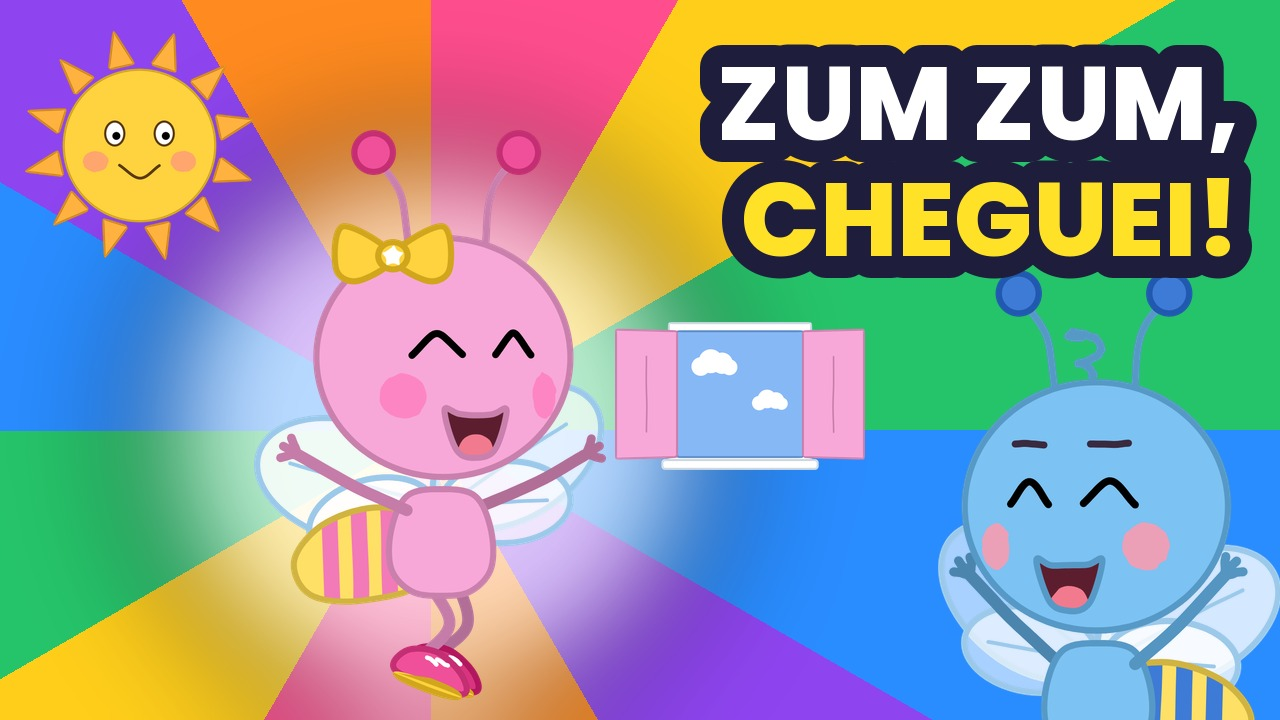
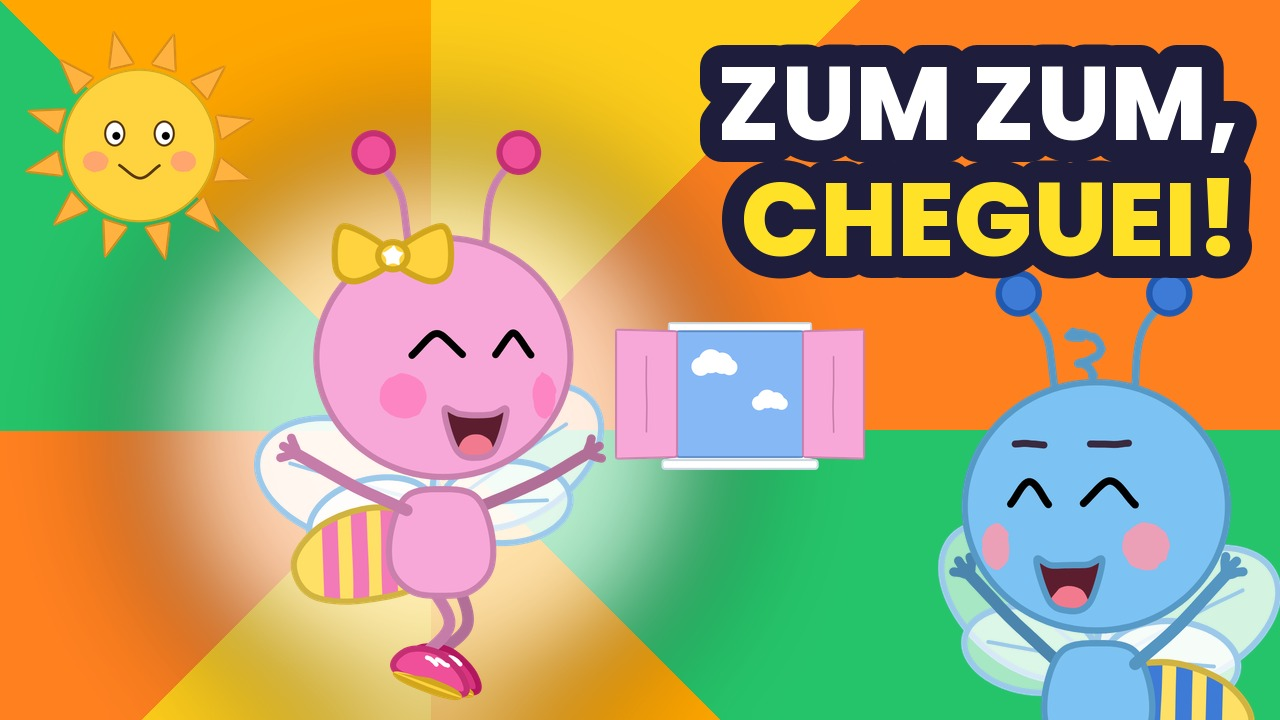
Miniaturas: cores e formato de fundo próprios por vídeo (raios, faixas, círculo, anéis) e lado do destaque alternando

diff --git a/toonstudio/composition/canal.py b/toonstudio/composition/canal.py
@@ -9,7 +9,7 @@ from __future__ import annotations
 import math
 from pathlib import Path
 
-from PIL import Image, ImageDraw, ImageFilter, ImageFont
+from PIL import Image, ImageDraw, ImageFilter, ImageFont, ImageOps
 
 from ..backgrounds import registry
 from ..characters.base import expression
@@ -154,6 +154,51 @@ def _ajusta(im: Image.Image, maior: int, giro: float = 0) -> Image.Image:
     return im.rotate(giro, expand=True, resample=Image.BICUBIC) if giro else im
 
 
+FUNDOS = ("raios", "faixas", "circulo", "aneis")                   # formato do fundo: muda de um vídeo para o outro
+
+
+def _halo(img: Image.Image, cx: float, cy: float, r: float = 290, a: int = 170) -> None:
+    h = Image.new("RGBA", img.size, (0, 0, 0, 0))
+    ImageDraw.Draw(h).ellipse([cx - r, cy - r, cx + r, cy + r], fill=(255, 255, 255, a))
+    img.alpha_composite(h.filter(ImageFilter.GaussianBlur(60)))
+
+
+def _fundo(formato: str, cores: list, cx: float, cy: float, W: int, H: int) -> Image.Image:
+    """Fundo chapado da miniatura. raios = leque saindo da personagem; faixas = listras diagonais largas;
+    circulo = fundo cortado na diagonal com um círculo grande atrás da personagem; aneis = círculos concêntricos."""
+    if formato not in FUNDOS:
+        raise ValueError(f"fundo de miniatura desconhecido: {formato} (use {FUNDOS})")
+    img = Image.new("RGBA", (W, H), cores[0] + (255,))
+    d = ImageDraw.Draw(img)
+    if formato == "raios":
+        n = len(cores) * 2
+        for k in range(n):
+            a0 = -math.pi / 2 + k * 2 * math.pi / n
+            a1 = a0 + 2 * math.pi / n
+            d.polygon([(cx, cy), (cx + 2200 * math.cos(a0), cy + 2200 * math.sin(a0)),
+                       (cx + 2200 * math.cos(a1), cy + 2200 * math.sin(a1))], fill=cores[k % len(cores)] + (255,))
+        _halo(img, cx, cy)
+    elif formato == "faixas":
+        larg, inc = 190, 0.55                                      # listras inclinadas (sobem para a direita)
+        for k in range(-12, 20):
+            x0 = k * larg
+            d.polygon([(x0, H), (x0 + larg, H), (x0 + larg + H * inc, 0), (x0 + H * inc, 0)], fill=cores[k % len(cores)] + (255,))
+        _halo(img, cx, cy, 300, 190)
+    elif formato == "circulo":
+        d.polygon([(0, 0), (W * 0.62, 0), (W * 0.40, H), (0, H)], fill=cores[0] + (255,))
+        d.polygon([(W * 0.62, 0), (W, 0), (W, H * 0.55), (W * 0.52, H * 0.55)], fill=cores[1] + (255,))
+        d.polygon([(W * 0.52, H * 0.55), (W, H * 0.55), (W, H), (W * 0.40, H)], fill=cores[3 % len(cores)] + (255,))
+        r = 330
+        d.ellipse([cx - r - 18, cy - r - 18, cx + r + 18, cy + r + 18], fill=(255, 255, 255, 255))
+        d.ellipse([cx - r, cy - r, cx + r, cy + r], fill=cores[2 % len(cores)] + (255,))
+        _halo(img, cx, cy, 220, 120)
+    else:                                                          # aneis
+        for i, r in enumerate(range(1500, 0, -120)):
+            d.ellipse([cx - r, cy - r, cx + r, cy + r], fill=cores[i % len(cores)] + (255,))
+        _halo(img, cx, cy, 260, 150)
+    return img
+
+
 def miniatura(titulo: str, nome: str, cena: dict | None = None) -> Path:
     """Miniatura 1280×720 no padrão dos canais infantis grandes: raios coloridos, personagem em close à esquerda,
     os objetos da música desenhados grandes e o título no canto superior direito. O canto inferior direito fica
@@ -168,17 +213,7 @@ def miniatura(titulo: str, nome: str, cena: dict | None = None) -> Path:
                                     "paw_n": 3, "hand_f_x": 135, "hand_f_y": -135, "hand_f_bend": -0.5, "paw_f": 3}})
     cx, cy = cena.get("centro", (430, 430))
     cores = [tuple(c) for c in cena.get("cores", CORES_RAIOS)]
-    img = Image.new("RGBA", (W, H))
-    d = ImageDraw.Draw(img)
-    n = len(cores) * 2
-    for k in range(n):
-        a0 = -math.pi / 2 + k * 2 * math.pi / n
-        a1 = a0 + 2 * math.pi / n
-        d.polygon([(cx, cy), (cx + 2200 * math.cos(a0), cy + 2200 * math.sin(a0)),
-                   (cx + 2200 * math.cos(a1), cy + 2200 * math.sin(a1))], fill=cores[k % len(cores)] + (255,))
-    brilho = Image.new("RGBA", (W, H), (0, 0, 0, 0))
-    ImageDraw.Draw(brilho).ellipse([cx - 290, cy - 290, cx + 290, cy + 290], fill=(255, 255, 255, 170))
-    img.alpha_composite(brilho.filter(ImageFilter.GaussianBlur(60)))
+    img = _fundo(cena.get("fundo", "raios"), cores, cx, cy, W, H)
     if par:                                                        # o par fica atrás, à direita, cortado embaixo
         im = _char(par["id"], _pose(par.get("pose", {})), par.get("tam", 600))
         _paste(img, im, par.get("x", 1060), H + par.get("corte", 150))
@@ -190,12 +225,15 @@ def miniatura(titulo: str, nome: str, cena: dict | None = None) -> Path:
     for o in cena.get("frente", []):                               # objetos na frente da personagem
         im = _ajusta(_char(o["id"], o.get("pose", {}), 400), o.get("tam", 300), o.get("giro", 0))
         _paste(img, im, o["x"], o["base"])
+    espelho = cena.get("lado") == "direita"                       # destaque à direita e título à esquerda
+    if espelho:
+        img = ImageOps.mirror(img)
     d = ImageDraw.Draw(img)
     y = 30
     for i, l in enumerate(titulo.split("\n")):
         size = 104 if len(l) <= 10 else 88
         f = ImageFont.truetype(FONT, size)
-        x = W - 40 - d.textlength(l, font=f)
+        x = 40 if espelho else W - 40 - d.textlength(l, font=f)
         d.text((x, y), l, font=f, fill=TINTA, stroke_width=22, stroke_fill=TINTA)
         d.text((x, y), l, font=f, fill=(255, 255, 255) if i == 0 else (255, 226, 40), stroke_width=9, stroke_fill=TINTA)
         y += size + 12

diff --git a/tests/test_musica.py b/tests/test_musica.py
@@ -245,3 +245,19 @@ def test_published_songs_have_a_colorful_thumbnail_scene():
             ids.append(cena["par"]["id"])
         for i in ids:
             assert i in CHARACTERS, f"{p.parent.name}: '{i}' não existe"
+
+
+def test_thumbnails_do_not_repeat_background():
+    """Cada miniatura tem fundo próprio: a combinação (formato, cores) não se repete entre músicas."""
+    from pathlib import Path
+    from toonstudio.composition.canal import FUNDOS
+    vistos = {}
+    for p in sorted(Path("musicas").glob("*/ficha.json")):
+        cena = json.loads(p.read_text(encoding="utf-8")).get("youtube", {}).get("miniatura_cena")
+        if not cena:
+            continue
+        assert cena.get("fundo") in FUNDOS and len(cena.get("cores", [])) >= 3, f"{p.parent.name}: defina fundo e cores"
+        chave = (cena["fundo"], tuple(map(tuple, cena["cores"])))
+        assert chave not in vistos, f"{p.parent.name} repete o fundo de {vistos.get(chave)}"
+        assert tuple(map(tuple, cena["cores"])) not in [k[1] for k in vistos], f"{p.parent.name} repete as cores de outra música"
+        vistos[chave] = p.parent.name

diff --git a/docs/PADRAO_DE_QUALIDADE.md b/docs/PADRAO_DE_QUALIDADE.md
@@ -47,3 +47,4 @@ melhor que o anterior.** Este documento é obrigatório, como a [BIBLIA_VISUAL.m
 | 16/11 | Storyboard do Short ep02: turma de 4 cortada nas bordas, Formiguinha andando para cima da Laurinha, câmera parada enquanto a Laurinha voava | verticalização só enfileirava a 320 (cabem 2 em 1080) e não levava o destino de quem anda nem a câmera junto | 3+ personagens = foto de grupo (dupla na frente, convidados atrás e acima), parado no fundo sai, destino de andar/voar acompanha, câmera segue quem se move, panorâmica com objetos | conferir o storyboard vertical plano a plano antes do render (borda, rosto coberto, quem se move) |
 | 16/11 | Sorriso Brilhante: v1 com base em tom menor; v2 cantou "Launinha" | rock pedia "distorted electric guitars" (puxa riff sombrio); a regra "Lau-ri-nha" da bíblia não estava no gerador | rock com guitarra pop-punk em tom maior; "minor key" e "fade out" no Exclude de todo o canal; o gerador escreve "Lau-ri-nha" no que é cantado | medir o tom da BASE (sem voz) quando o rock/guitarra der "menor"; regra da bíblia que não está no código não vale |
 | 17/11 | Miniaturas só amarelas, sem nenhuma imagem da música (usuário comparou com canais grandes) | miniatura fixa: raios amarelos + dupla de braços para cima, igual em todo vídeo | raios em 6 cores fortes, personagem-destaque em close com o objeto da música na mão, objetos-tema grandes, título branco/amarelo com contorno escuro no canto superior direito, canto inferior direito livre (duração) | cada ficha publicada tem `youtube.miniatura_cena` (teste obriga); conferir a miniatura junto com as dos outros vídeos antes de entregar |
+| 17/11 | Fundo igual em todas as miniaturas (mesmas cores e raios) | uma paleta e um formato fixos no código | paleta e formato por música na ficha (raios, faixas, círculo, anéis) e lado do destaque alternando | teste impede repetir cores ou combinação de fundo |
